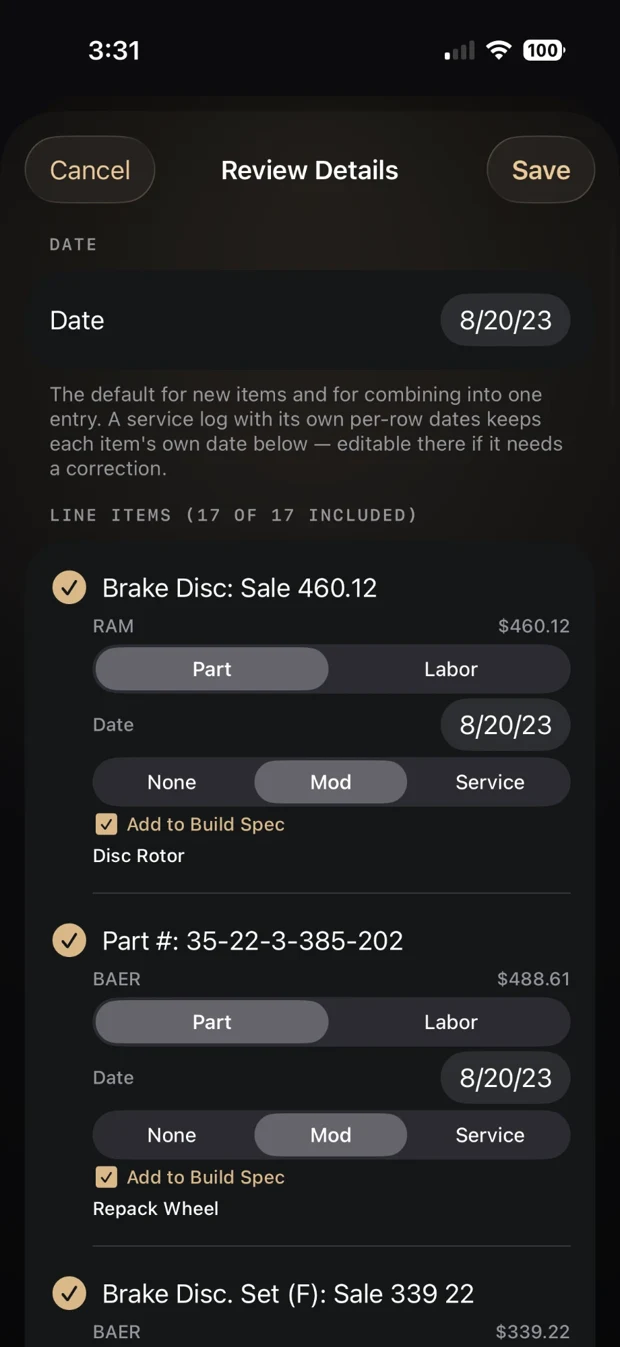
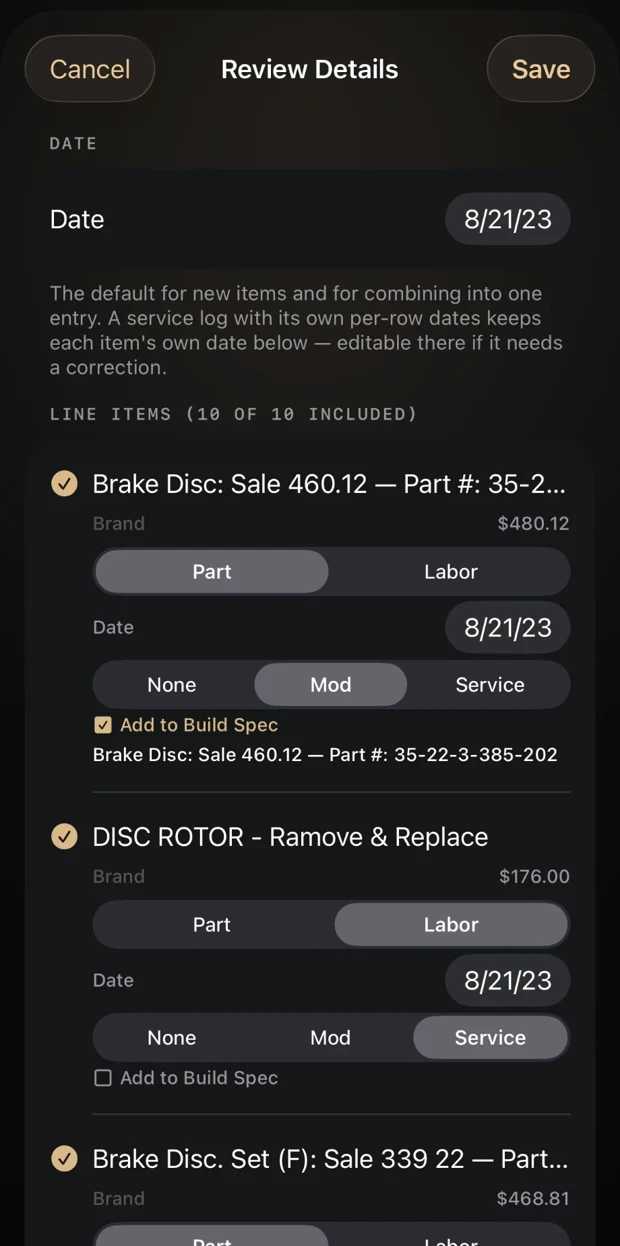
Real extraction screenshots

diff --git a/index.html b/index.html
@@ -258,9 +258,9 @@
       <div style="background: rgba(0,0,0,0.2); border-radius: 12px; padding: 20px;">
         <div style="font-size: 12px; color: #d4a574; text-transform: uppercase; letter-spacing: 1px; font-weight: 700; margin-bottom: 12px;">After: Extracted in Glovebox</div>
         <div style="display: flex; gap: 12px; overflow-x: auto; scroll-snap-type: x mandatory; padding-bottom: 8px;">
-          <img src="app-review-1.webp" alt="Glovebox Review Details screen showing line items extracted from the invoice" style="width: 72%; flex: none; scroll-snap-align: start; border-radius: 14px; border: 1px solid rgba(255,255,255,.1);">
-          <img src="app-review-2.webp" alt="Glovebox Review Details screen, brake discs and pads with part and labor toggles" style="width: 72%; flex: none; scroll-snap-align: start; border-radius: 14px; border: 1px solid rgba(255,255,255,.1);">
-          <img src="app-review-3.webp" alt="Glovebox Review Details screen, brake pads and sensors" style="width: 72%; flex: none; scroll-snap-align: start; border-radius: 14px; border: 1px solid rgba(255,255,255,.1);">
+          <img src="app-review-1.webp" alt="Glovebox Glovebox Review Details screen: invoice date and first line items extracted" style="width: 72%; flex: none; scroll-snap-align: start; border-radius: 14px; border: 1px solid rgba(255,255,255,.1);">
+          <img src="app-review-2.webp" alt="Glovebox Glovebox Review Details screen: brake parts and a labor line" style="width: 72%; flex: none; scroll-snap-align: start; border-radius: 14px; border: 1px solid rgba(255,255,255,.1);">
+          <img src="app-review-3.webp" alt="Glovebox Glovebox Review Details screen: remaining parts, all with part numbers" style="width: 72%; flex: none; scroll-snap-align: start; border-radius: 14px; border: 1px solid rgba(255,255,255,.1);">
         </div>
         <div style="font-size: 11px; color: #9A9AA1; margin-top: 8px;">Real screenshots from the Glovebox app. Swipe to scroll.</div>
       </div>
